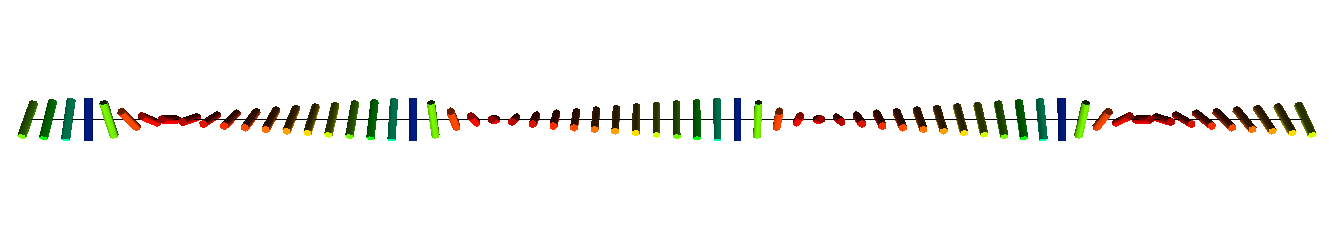
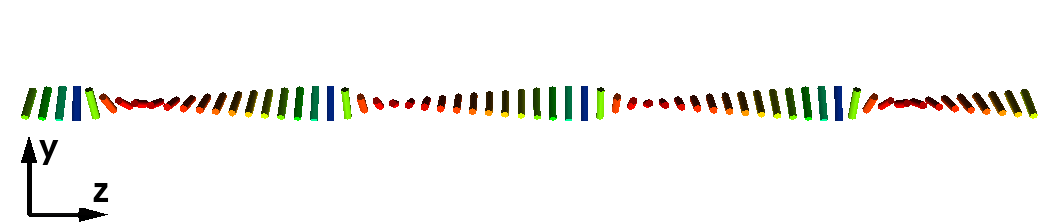
(Partly) updated pictures
git-svn-id: https://ccpforge.cse.rl.ac.uk/svn/ludwig@1805 40876441-3496-0410-a613-a2fca35b2ae2

diff --git a/trunk/papers/bprheo/bprheo.tex b/trunk/papers/bprheo/bprheo.tex
@@ -425,9 +425,9 @@ reconnect further downstream forming a periodically recurring pattern with
 recurrence time $\tau_F=1/\gd$ in flow direction.
 
 \begin{figure}[htpb]
-\includegraphics[width=0.4\textwidth]{disc-160k_run902.png}
-\includegraphics[width=0.4\textwidth]{disc-164k_run902.png}
-\includegraphics[width=0.4\textwidth]{disc-165k_run902.png}
+\includegraphics[width=0.41\textwidth]{disc-160k_run902.png}
+\includegraphics[width=0.41\textwidth]{disc-164k_run902.png}
+\includegraphics[width=0.41\textwidth]{disc-165k_run902.png}
 \caption{Disclination network of BPII in shear flow: 
 The pictures show a typical sequence of snapshots in the steady state 
 at $\gd=1.56\e{-4}$ and time steps $t=1.60, 1.64,1.65\e{5}$. The velocity 
@@ -814,10 +814,10 @@ were identical to the smaller run with 8 unit cells. The shear rate was $\gd=7.8
 
 \begin{figure}[htpb]
 %\includegraphics[width=0.4\textwidth]{dir+z-300k_run916.png}
-\includegraphics[width=0.4\textwidth]{dir+z-301k_run916.png}
-\includegraphics[width=0.4\textwidth]{dir+z-302k_run916.png}
+%\includegraphics[width=0.4\textwidth]{dir+z-301k_run916.png}
+\includegraphics[width=0.4\textwidth]{dir3d-z-302k_run916.png}
 \caption{Director field of BPI at high shear rate: The pictures show a slice 
-of $L_x\times L_y = 64\times64$ lattice sites along the vorticity direction 
+of $L_x\times L_y \times L_Z= 32\times32\times 32$ lattice sites along the vorticity direction 
 with the flow/gradient direction oriented along the horizontal/vertical axis. 
 The colour code gives the magnitude of the in-plane component of the director field. 
 The data is translationally invariant in vorticity direction.}
@@ -840,6 +840,13 @@ Interestingly the critical shear rate for the break-up lies in the same
 window as that of transition between BPII-1 and BPII-2, 
  $3.125\e{-4}\le\gd_c\le 6.25\e{-4}$ and occurs at similar 
 Ericksen numbers ${\it Er}\simeq 10$.
+
+\subsection{Transition to 1D Uniaxial Twist}
+
+
+
+\subsection{Uncoiling Transition to Nematic State} 
+
 
 \clearpage
 
